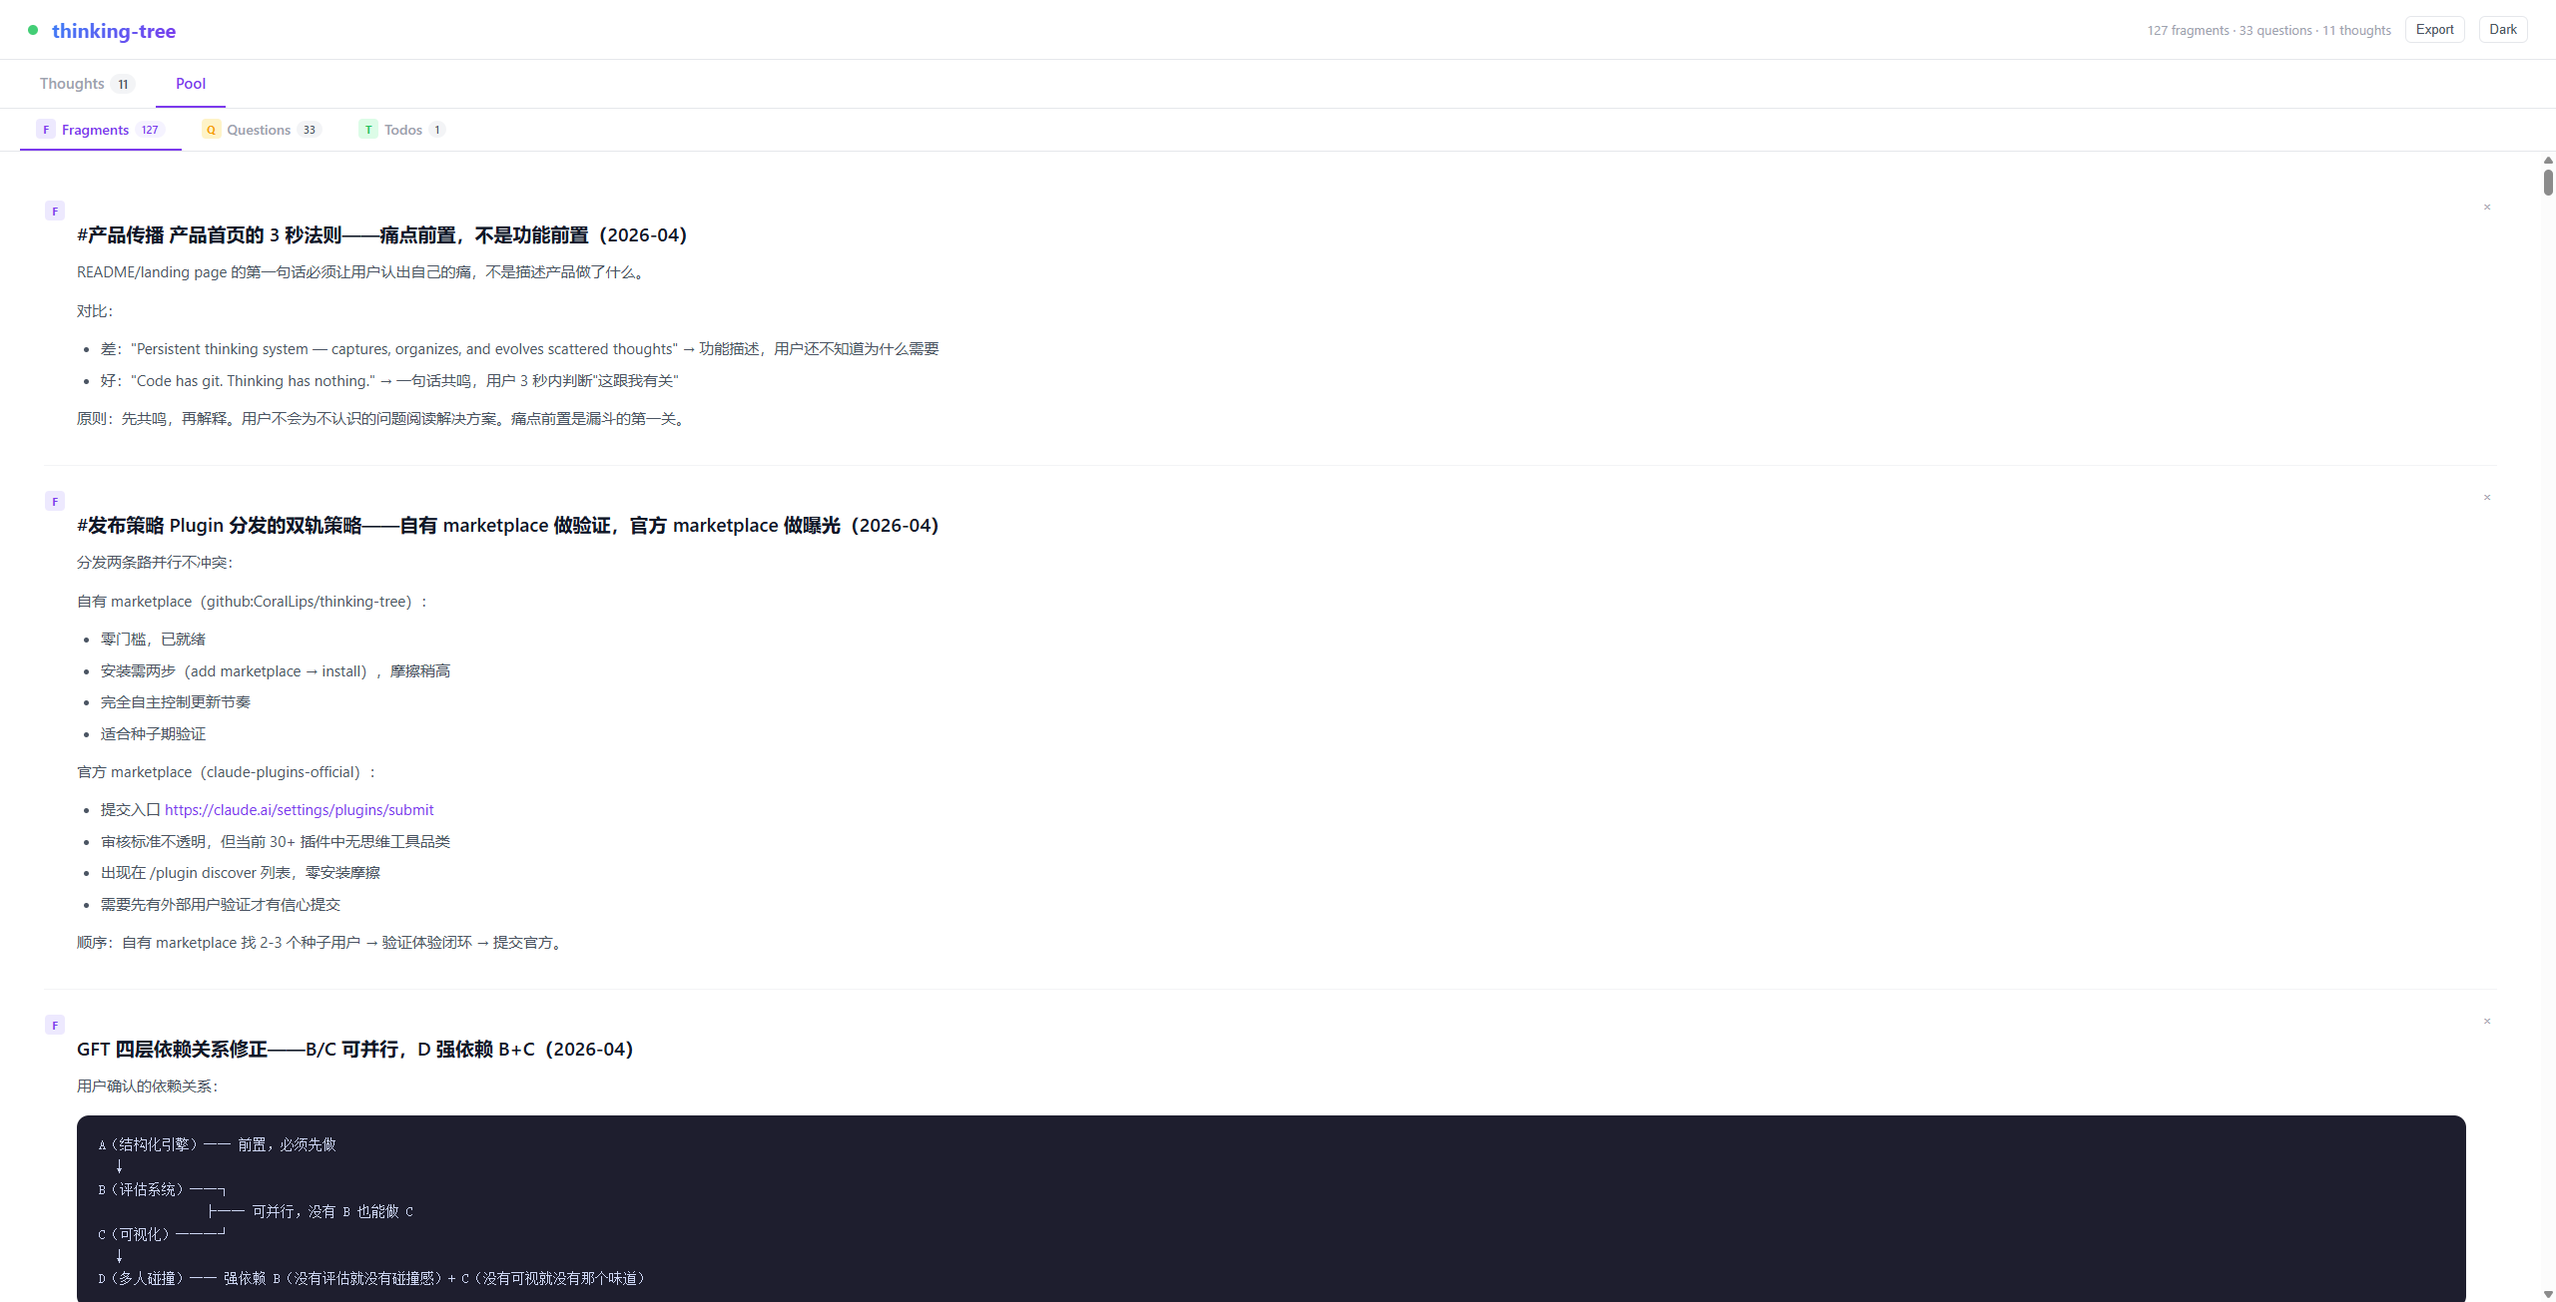
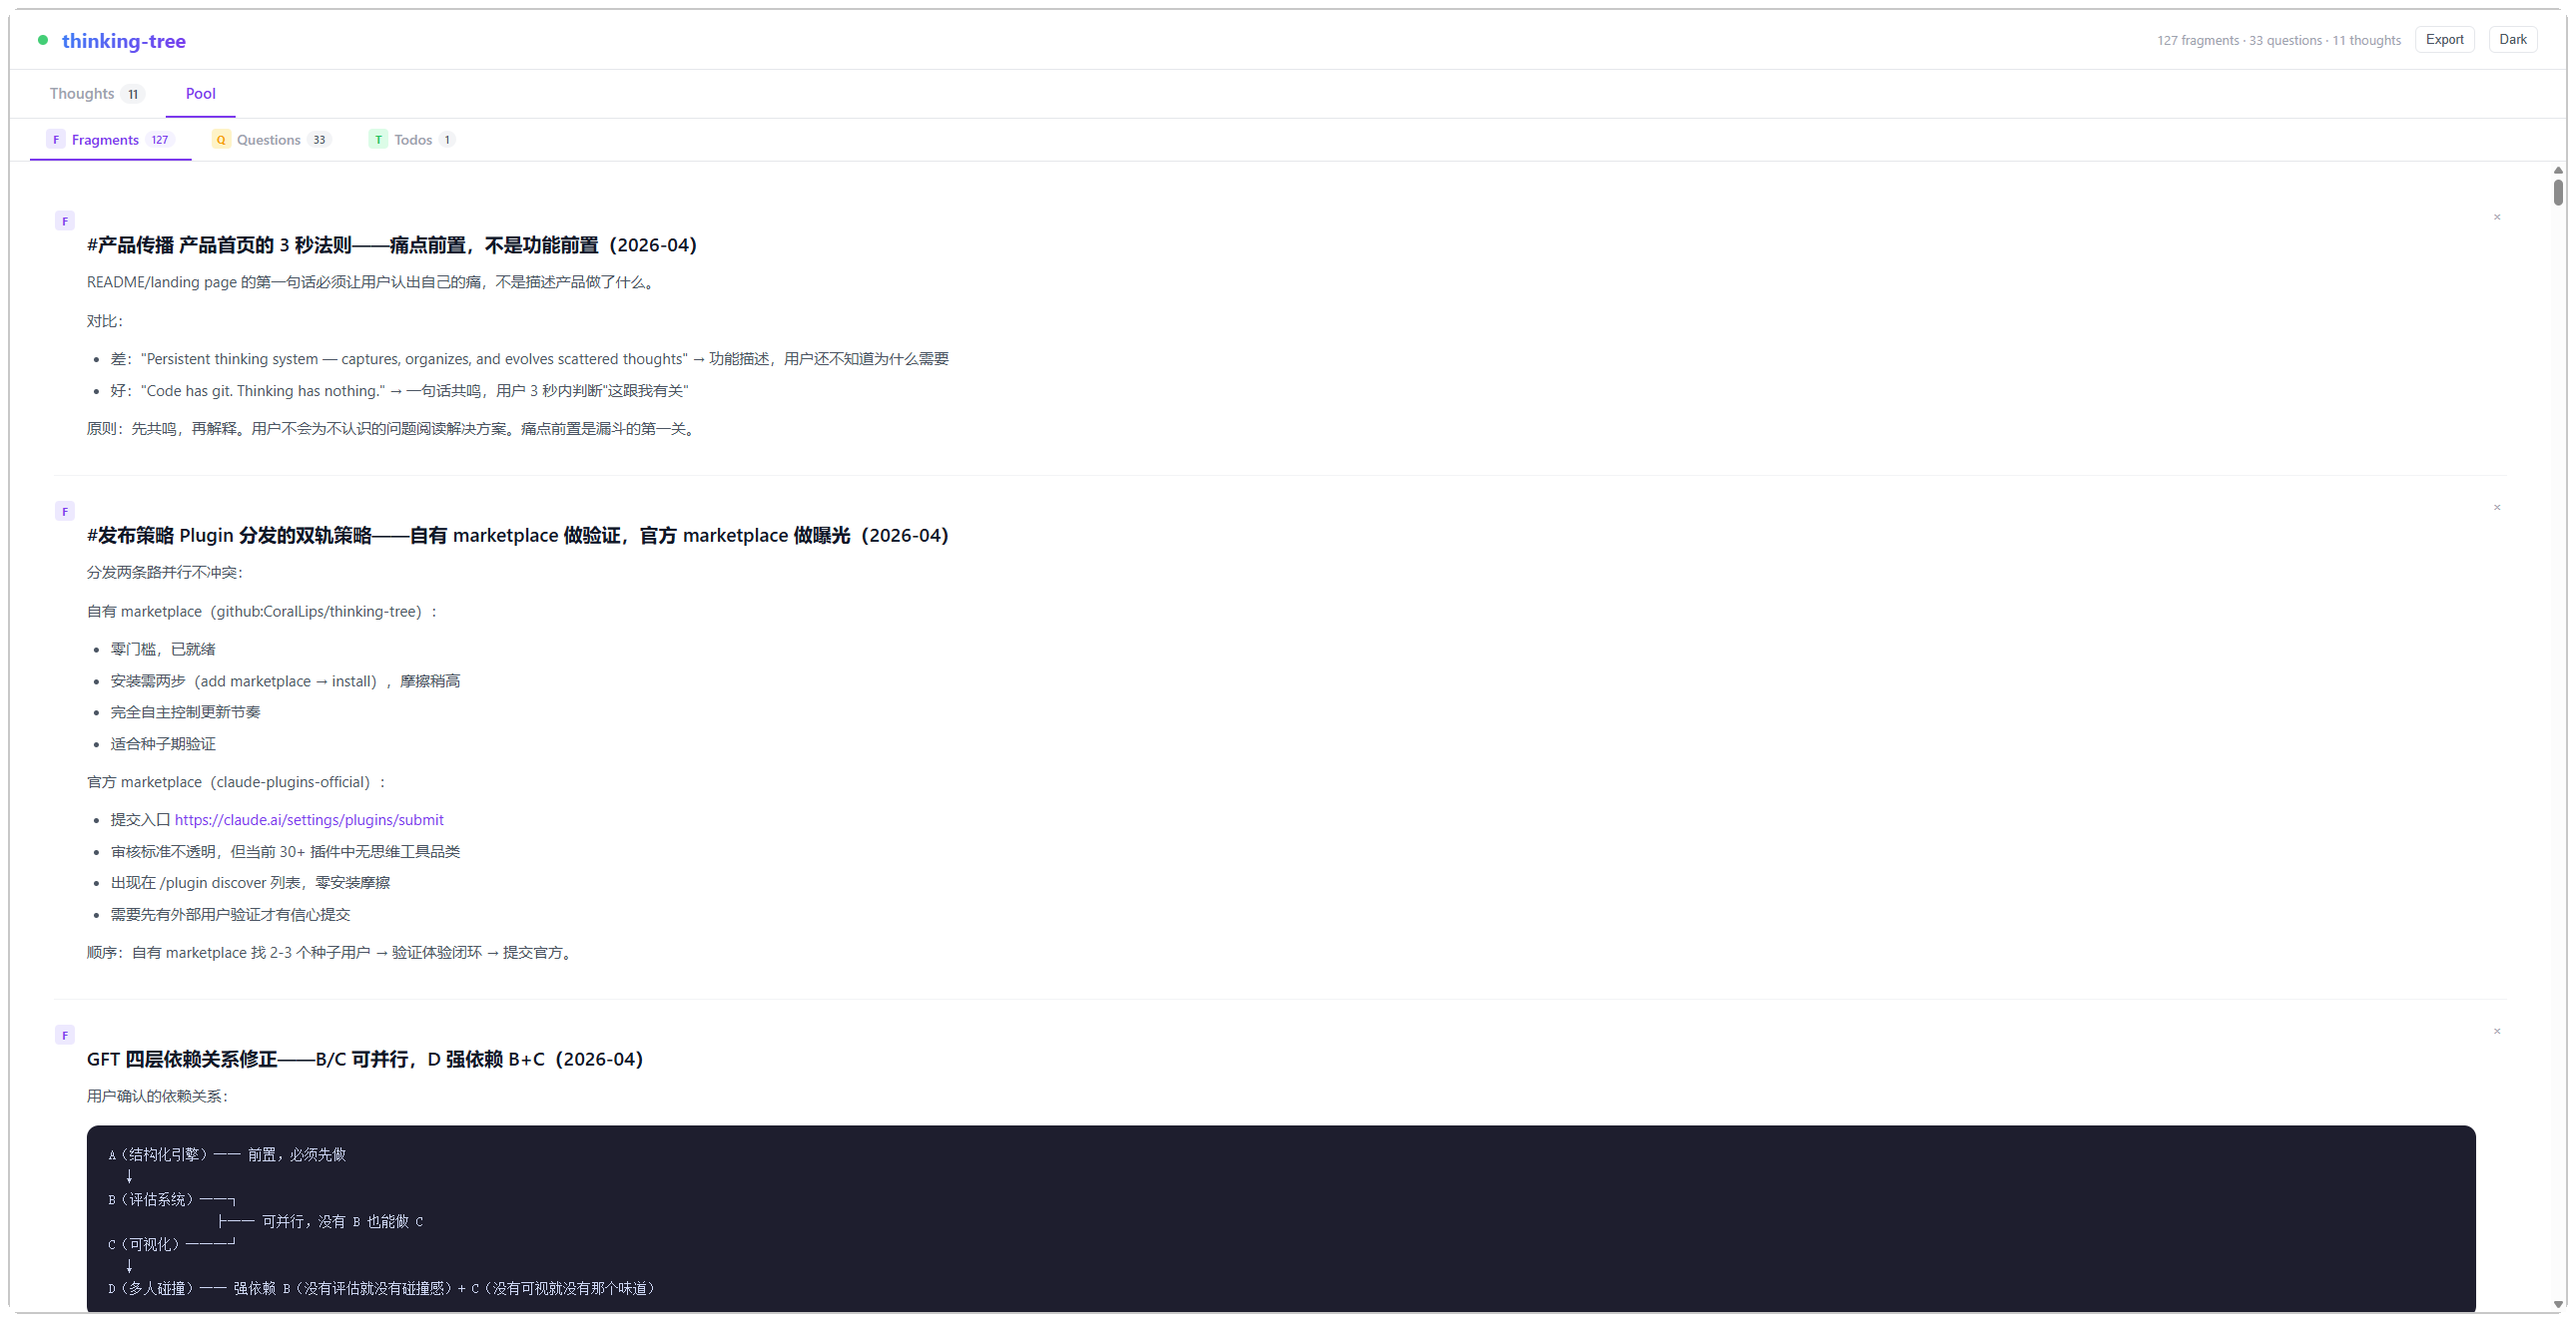
docs: bake border into screenshots, drop inline styles
GitHub strips inline CSS. Use Pillow to add rounded gray border
directly to the PNG files, revert to standard markdown image syntax.

diff --git a/README.md b/README.md
@@ -8,11 +8,11 @@ AI makes it worse — you produce 5x more insights per session, but still save z
 
 **Fragments accumulate as you work:**
 
-<img src="assets/viewer-pool.png" alt="Pool view — fragments captured across sessions" style="border: 1px solid #d1d5db; border-radius: 8px; box-shadow: 0 2px 8px rgba(0,0,0,0.12);" />
+![Pool view — fragments captured across sessions](assets/viewer-pool.png)
 
 **Crystallize into structured thoughts over time:**
 
-<img src="assets/viewer-thoughts.png" alt="Thoughts view — organized thinking with diagrams and structure" style="border: 1px solid #d1d5db; border-radius: 8px; box-shadow: 0 2px 8px rgba(0,0,0,0.12);" />
+![Thoughts view — organized thinking with diagrams and structure](assets/viewer-thoughts.png)
 
 ## Install
 
